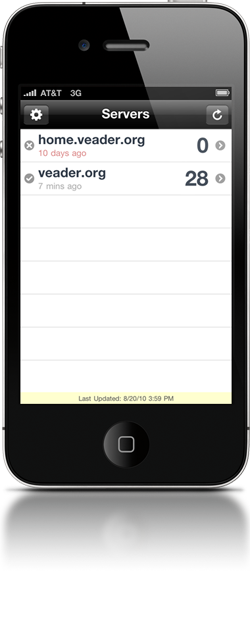
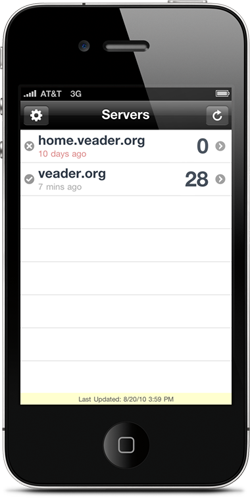
reorg and new iphone without reflection

diff --git a/index.html b/index.html
@@ -25,13 +25,16 @@
       #content #screenshots { clear:both; height:50px; padding:20px; }
       #content #app_store { position:relative; margin:0 auto; text-align:center; padding-top:5px; height:100px; }
       #content #app_store #soon { position:absolute; top:0; left:70px; }
-      #content #thanks { border:1px solid #CCC; background-color:#DDD; padding:20px; width:80%; }
-      #footer { clear:both; border:1px solid #EEB; border-bottom:0px; background-color:#FFC; height:20px; }
+      #required { clear:both; background-color:#FFC; border:1px solid #EEB; padding:5px 20px 0 20px; }
+      #required a, #footer a { color:#222; }
+      #required a:hover, #footer a:hover { text-decoration:none; }
+      #footer { height:20px;margin-top:5px; }
       #footer p { padding:1px 10px; font-size:12px; line-height:18px; }
-      #footer a { text-decoration:none; color:#222; }
       
       .left  { float:left; width:45%; margin:10px 5px 10px 25px; }
       .right { float:left; width:45%; margin-left:10px; padding:10px 0px 10px 10px; }
+      .huge_font { font-size:1.8em;vertical-align:middle; }
+      .centered { text-align:center; }
     </style>
   </head>
   <body>
@@ -56,11 +59,13 @@
       </div>
       <div id="content">
         <div class="left">
+          <br />
           <p>
             BirdDog is a lightweight utility designed to remotely
             view of your servers and applications being monitored
             by <a href="http://scoutapp.com">Scout</a>.
           </p>
+
           <ul>
             <li>Track server health including uptime and alert status</li>
             <li>Stay on top of active alerts for quick troubleshooting</li>
@@ -73,47 +78,32 @@
             <img src="images/appstore.png" alt="Available on the App Store" />
             <img src="images/soon.png" alt="" id="soon" style="width:50%;" />
           </div>
-
-          <h4>Requirements</h4>
-          <ul>
-            <li>iPhone or iPod Touch running iOS 4</li>
-            <li><a href="http://scoutapp.com">Scout</a> account</li>
-          </ul>
         </div>
+        
         <div id="screenshots">
-          <h2 style="text-align:center;color:#CCC;">Screenshots Here</h2>
-        </div>
-        <div class="left">
-          <h4>Features</h4>
-          <ul>
-            <li>Some</li>
-            <li>More</li>
-            <li>Features</li>
-            <li>Here</li>
-          </ul>
-        </div>
-        <div class="right">
-          <div id="thanks">
-            <p>
-              <a href="http://scoutapp.com">
-                <img src="images/scout_logo.png" alt="Scout" style="width:150px;" />
-              </a>
-              <br />
-              Powered by <a href="http://scoutapp.com">Scout</a>
-            </p>
-            <br />
-
-            <p>
-              <a href="http://andrewreifman.com">
-                <img src="images/ar_logo.png" alt="Andrew Reifman" style="width:50px;" />
-              </a>
-              <br />
-              Icon design by <a href="http://andrewreifman.com">Andrew Reifman</a>
-            </p>
-          </div>
+          <h2 style="text-align:center;font-size:2.0em;color:#DDD;">Screenshots Here</h3>
         </div>
       </div>
+      <div id="required">
+        <p>
+          <span class="huge_font">*</span>
+          <strong>Requires</strong> an iPhone or iPod Touch running iOS 4
+          and a <a href="http://scoutapp.com">Scout</a> account.
+        </p>
+      </div>
       <div id="footer">
+        <p class="centered">
+          <a href="http://scoutapp.com">
+            <img src="images/scout_logo.png" alt="Scout" style="width:150px;" />
+          </a>
+          Powered by <a href="http://scoutapp.com">Scout</a>
+          &nbsp;&nbsp;&nbsp;&nbsp;
+
+          <a href="http://andrewreifman.com">
+            <img src="images/ar_logo.png" alt="Andrew Reifman" style="height:40px;" />
+          </a>
+          Icon design by <a href="http://andrewreifman.com">Andrew Reifman</a>
+        </p>
         <p>
           &copy; 2010 <a href="http://v8logic.com">V8 Logic</a>
         </p>
